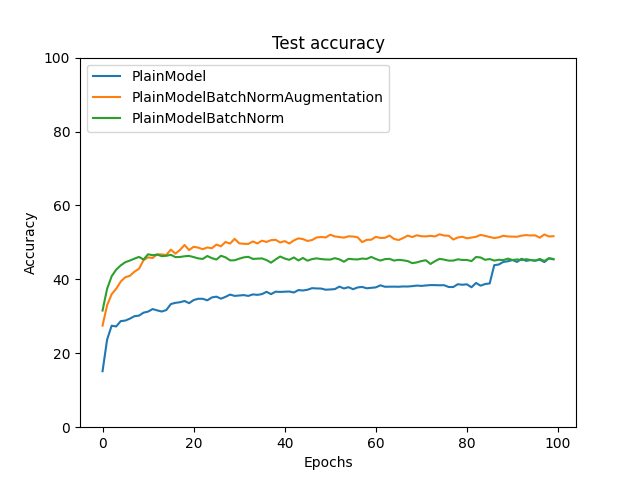
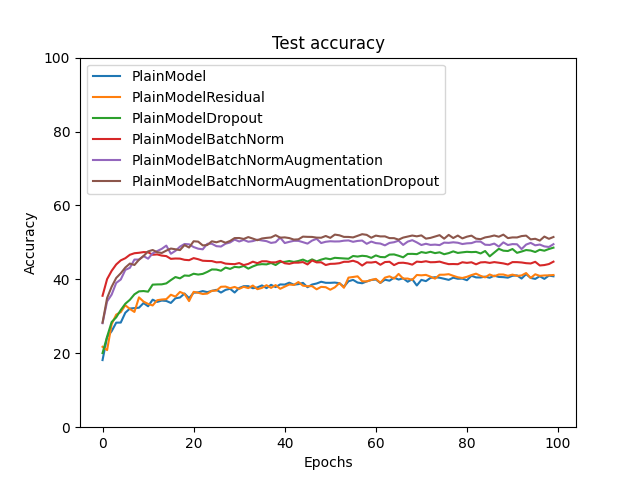
Played more with cifar-10 benchmark

Changed region(s): [[0.1562, 0.4688, 0.875, 0.7812], [0.125, 0.1875, 0.6875, 0.4062]]

diff --git a/playground/cifar-10/models/PlainModelResidual.py b/playground/cifar-10/models/PlainModelResidual.py
@@ -1,0 +1,53 @@
+from torch import nn
+import torch
+import torch.nn as nn
+import torch.nn.functional as F
+
+def conv_layer(in_channel, out_channel, kernel_size=3, stride=1):
+    return nn.Conv2d(
+        in_channels=in_channel,
+        out_channels=out_channel,
+        kernel_size=kernel_size,
+        stride=stride,
+        padding=1,
+        bias=False,
+    )
+
+class ResidualBlock(nn.Module):
+    def __init__(self, input, output) -> None:
+        super().__init__()
+        
+        self.conv_1 = conv_layer(input, output)
+        self.conv_2 = conv_layer(output, output)
+
+    def forward(self, x):
+        residual = x
+
+        x = self.conv_1(x)
+        x = F.relu(x)
+        x = self.conv_2(x)
+        x += residual
+
+        return F.relu(x)
+
+class PlainModelResidual(nn.Module):
+    def __init__(self):
+        super().__init__()
+        self.conv1 = nn.Conv2d(3, 16, 3)
+        self.conv2 = ResidualBlock(16, 16)
+        self.fc1 = nn.Linear(16 * 30 * 30, 256)
+        self.fc2 = nn.Linear(256, 10)
+
+    def forward(self, x):
+        x = (F.relu(self.conv1(x)))
+        x = (F.relu(self.conv2(x)))
+        x = torch.flatten(x, 1)
+        #x = F.dropout(x, p=0.1)
+        x = F.relu(self.fc1(x))
+        x = F.relu(self.fc2(x))
+        return F.log_softmax(x, dim=1)
+
+    def loss(self, X, y):
+        forward = self.forward(X)
+        loss = torch.nn.NLLLoss()(forward, y)
+        return loss

diff --git a/playground/cifar-10/models/PlainModelDropout.py b/playground/cifar-10/models/PlainModelDropout.py
@@ -3,26 +3,23 @@ import torch
 import torch.nn as nn
 import torch.nn.functional as F
 
-class PlainModelBatchNorm(nn.Module):
+# just using the example model from https://pytorch.org/tutorials/beginner/blitz/cifar10_tutorial.html
+class PlainModelDropout(nn.Module):
     def __init__(self):
         super().__init__()
         self.conv1 = nn.Conv2d(3, 6, 5)
-        self.conv_1_batch_norm = nn.BatchNorm2d(6)
         self.pool = nn.MaxPool2d(2, 2)
         self.conv2 = nn.Conv2d(6, 16, 5)
-        self.conv_2_batch_norm = nn.BatchNorm2d(16)
         self.fc1 = nn.Linear(16 * 5 * 5, 256)
-        self.batch_norm = nn.BatchNorm1d(256)
         self.fc2 = nn.Linear(256, 10)
-        self.batch_norm_out = nn.BatchNorm1d(10)
 
     def forward(self, x):
-        x = self.pool(self.conv_1_batch_norm(F.relu(self.conv1(x))))
-        x = self.pool(self.conv_2_batch_norm(F.relu(self.conv2(x))))
+        x = self.pool(F.relu(self.conv1(x)))
+        x = self.pool(F.relu(self.conv2(x)))
         x = torch.flatten(x, 1)
-        #x = F.dropout(x, p=0.1)
-        x = self.batch_norm(F.relu(self.fc1(x)))
-        x = self.batch_norm_out(F.relu(self.fc2(x)))
+        x = F.dropout(x, p=0.1)
+        x = F.relu(self.fc1(x))
+        x = F.relu(self.fc2(x))
         return F.log_softmax(x, dim=1)
 
     def loss(self, X, y):

diff --git a/playground/cifar-10/models/PlainModelBatchNormAugmentation.py b/playground/cifar-10/models/PlainModelBatchNormAugmentation.py
@@ -12,7 +12,7 @@ augmentations = torch.nn.Sequential(
 )
 
 class PlainModelBatchNormAugmentation(nn.Module):
-    def __init__(self):
+    def __init__(self, use_dropout=False):
         super().__init__()
         self.conv1 = nn.Conv2d(3, 6, 5)
         self.conv_1_batch_norm = nn.BatchNorm2d(6)
@@ -23,12 +23,14 @@ class PlainModelBatchNormAugmentation(nn.Module):
         self.batch_norm = nn.BatchNorm1d(256)
         self.fc2 = nn.Linear(256, 10)
         self.batch_norm_out = nn.BatchNorm1d(10)
+        self.use_dropout = use_dropout
 
     def forward(self, x):
         x = self.pool(self.conv_1_batch_norm(F.relu(self.conv1(x))))
         x = self.pool(self.conv_2_batch_norm(F.relu(self.conv2(x))))
         x = torch.flatten(x, 1)
-        x = F.dropout(x, p=0.1)
+        if self.use_dropout:
+          x = F.dropout(x, p=0.1)
         x = self.batch_norm(F.relu(self.fc1(x)))
         x = self.batch_norm_out(F.relu(self.fc2(x)))
         return F.log_softmax(x, dim=1)
@@ -37,3 +39,7 @@ class PlainModelBatchNormAugmentation(nn.Module):
         forward = self.forward(augmentations(X))
         loss = torch.nn.NLLLoss()(forward, y)
         return loss
+
+class PlainModelBatchNormAugmentationDropout(PlainModelBatchNormAugmentation):
+    def __init__(self):
+        super().__init__(use_dropout=True)

diff --git a/playground/cifar-10/train.py b/playground/cifar-10/train.py
@@ -2,8 +2,10 @@ from dataloader import Cifar10Dataloader
 import torch
 from torch.utils.data import DataLoader
 from models.PlainModel import PlainModel
-from models.PlainModelBatchNormAugmentation import PlainModelBatchNormAugmentation
+from models.PlainModelDropout import PlainModelDropout
+from models.PlainModelBatchNormAugmentation import PlainModelBatchNormAugmentation, PlainModelBatchNormAugmentationDropout
 from models.PlainModelBatchNorm import PlainModelBatchNorm
+from models.PlainModelResidual import PlainModelResidual
 from eval import eval_model
 from optimization_utils.plotters.SimplePlot import SimplePlot
 from optimization_utils.plotters.LinePlot import LinePlot
@@ -77,7 +79,10 @@ if __name__ == "__main__":
     models = [
         PlainModel().to(device),
         PlainModelBatchNorm().to(device),
-        PlainModelBatchNormAugmentation().to(device)
+        PlainModelBatchNormAugmentation().to(device),
+        PlainModelBatchNormAugmentationDropout().to(device),
+        PlainModelDropout().to(device),
+        PlainModelResidual().to(device),
     ]
 
     lock = Lock()

diff --git a/playground/cifar-10/models/PlainModel.py b/playground/cifar-10/models/PlainModel.py
@@ -17,7 +17,7 @@ class PlainModel(nn.Module):
         x = self.pool(F.relu(self.conv1(x)))
         x = self.pool(F.relu(self.conv2(x)))
         x = torch.flatten(x, 1)
-        x = F.dropout(x, p=0.1)
+        #x = F.dropout(x, p=0.1)
         x = F.relu(self.fc1(x))
         x = F.relu(self.fc2(x))
         return F.log_softmax(x, dim=1)

diff --git a/architecture/efficient_net.md b/architecture/efficient_net.md
@@ -1,0 +1,15 @@
+[EfficientNet: Rethinking Model Scaling for Convolutional Neural Networks](https://arxiv.org/pdf/1905.11946.pdf)
+
+The paper looks at how balanced network depth, breadth, and resolution can lead to improved results. They propose a new scaling method based on the findings.
+The proposed methods scales network depth, breadth and resolution.
+
+$$\text{depth}, d = \alpha^\phi$$
+$$\text{width}, w = \beta^\phi$$
+$$\text{resolution}, r = \gamma^\phi$$
+Where $\phi$ control's how much resources are available, and $\alpha, \beta, \gamma$ is controlling how to scale the resources and can be determined by a grid search on the base model.
+
+Such that
+
+$$\alpha \times \beta^2 \times \gamma^2 \approx 2$$
+$$\alpha \ge 1, \beta \ge 1, \gamma \ge 1$$
+

diff --git a/architecture/sentiment_neuron.md b/architecture/sentiment_neuron.md
@@ -1,0 +1,7 @@
+[Learning to Generate Reviews and Discovering Sentiment](https://arxiv.org/pdf/1704.01444.pdf)
+One of the cool findings from this paper is that a model that learns to generate reviews will also learn concepts associated with such reviews for instance sentiment. The authors show that a single neuron is handling sentiment, and got SOTA on Stanford Sentiment Treebank.
+
+
+
+
+
